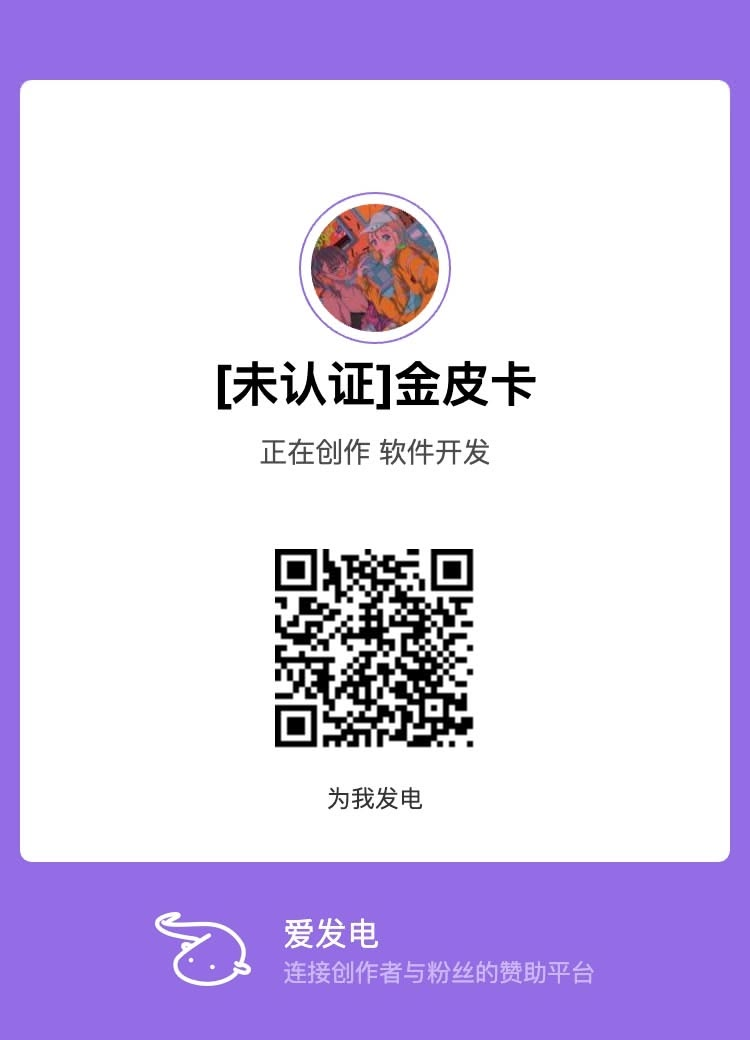
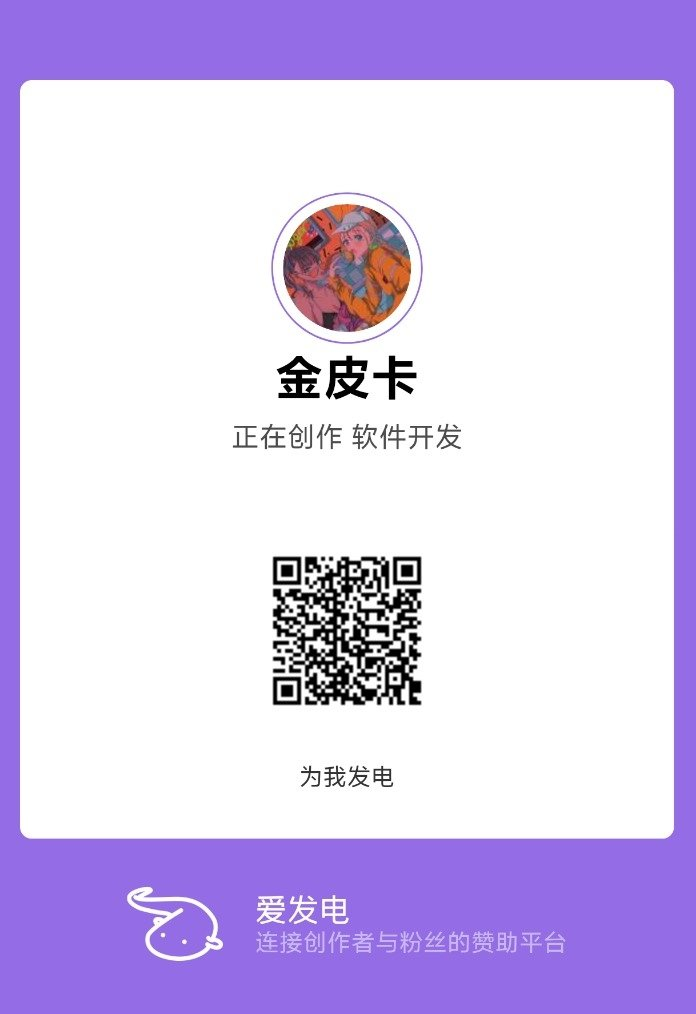
📝 docs(README): 更新爱发电赞助码并新增支付宝赞助码
爱发电二维码换成新的创作者卡片；同时补一张支付宝赞赏码，中文/英文/日文
三份 README 与发版说明的赞助区一起展示。

发版说明里的图片缩放从 height 改为 width：竖向卡片按 280 高度算只剩 190px
宽，二维码被压得太小不好扫；按宽度统一 280 后三张图比例更接近。

diff --git a/README.ja.md b/README.ja.md
@@ -155,6 +155,7 @@ WaifuX は**完全無料のオープンソース**個人プロジェクトです
 <p align="center">
   <img src="reward.jpg" width="280" alt="WeChat 報酬QRコード" />
   <img src="afdian_reward.jpg" width="280" alt="Afdian スポンサーQRコード" />
+  <img src="alipay_reward.jpg" width="280" alt="Alipay スポンサーQRコード" />
 </p>
 
 もちろん、**スター ⭐ を付けるだけ**でも大きな励みになります！

diff --git a/README.md b/README.md
@@ -146,6 +146,7 @@ WaifuX 是一个**完全免费、开源**的个人项目。开发和维护一个
 <p align="center">
   <img src="reward.jpg" width="280" alt="微信赞赏码" />
   <img src="afdian_reward.jpg" width="280" alt="爱发电赞助码" />
+  <img src="alipay_reward.jpg" width="280" alt="支付宝赞赏码" />
 </p>
 
 当然，**给项目点个 Star ⭐** 同样是对开发者最大的鼓励！

diff --git a/README.en.md b/README.en.md
@@ -155,6 +155,7 @@ If you find WaifuX helpful, please consider supporting its continued development
 <p align="center">
   <img src="reward.jpg" width="280" alt="WeChat Reward QR Code" />
   <img src="afdian_reward.jpg" width="280" alt="Afdian Sponsor QR Code" />
+  <img src="alipay_reward.jpg" width="280" alt="Alipay Sponsor QR Code" />
 </p>
 
 Of course, **giving a Star ⭐** is also greatly appreciated!
